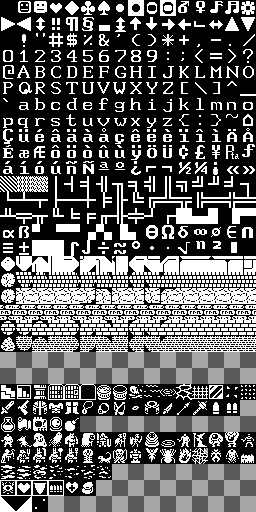
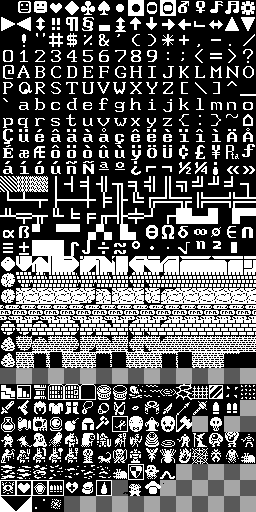
Improved graphics. And lowered the amount of clouds produced by dust demon.

diff --git a/monster.py b/monster.py
@@ -144,7 +144,7 @@ def new_worm(gamestate):
 
     worm.set_child(Description("Worm", "It's a giant earth worm."))
     worm.set_child(EntityMessages("The worm wiggles at you.", "The worm stops moving."))
-    worm.set_child(GraphicChar(None, colors.PINK, "w"))
+    worm.set_child(GraphicChar(None, colors.PINK, icon.BLOOD7+4))
 
     worm.set_child(Health(4))
     worm.set_child(DataPoint(DataTypes.STRENGTH, 3))
@@ -476,7 +476,7 @@ class MakeDustClouds(Leaf):
     def _spawn_dust_cloud(self):
         my_position = self.parent.position.value
         dungeon_level = self.parent.dungeon_level.value
-        dust = new_dust_cloud(self.parent.game_state.value, 24)
+        dust = new_dust_cloud(self.parent.game_state.value, 12)
         dust.mover.replace_move(my_position, dungeon_level)
 
 

diff --git a/dungeonfeature.py b/dungeonfeature.py
@@ -73,7 +73,7 @@ class SpiderWeb(Composite):
         self.set_child(DungeonLevel())
         self.set_child(Description("Spider Web",
                                    "A spider made this web, touch it and you might get stuck"))
-        self.set_child(GraphicChar(None, colors.WHITE, "#"))
+        self.set_child(GraphicChar(None, colors.WHITE, icon.SPIDER+2))
 
         self.set_child(CharPrinter())
         self.set_child(Mover())
